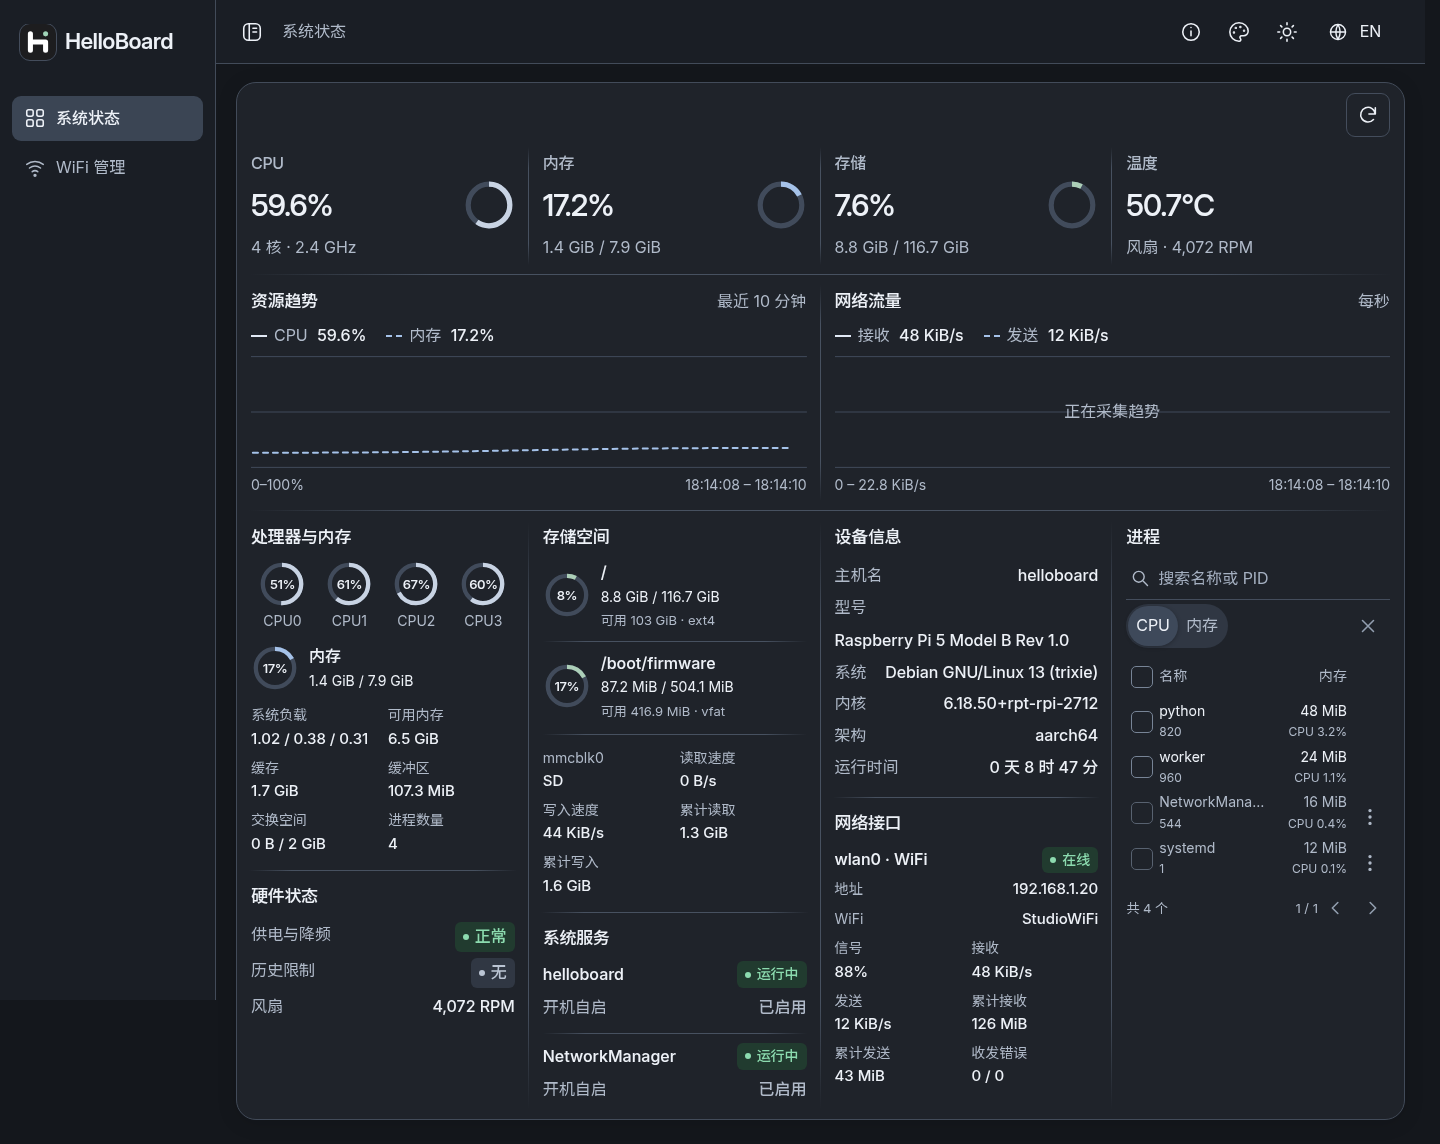
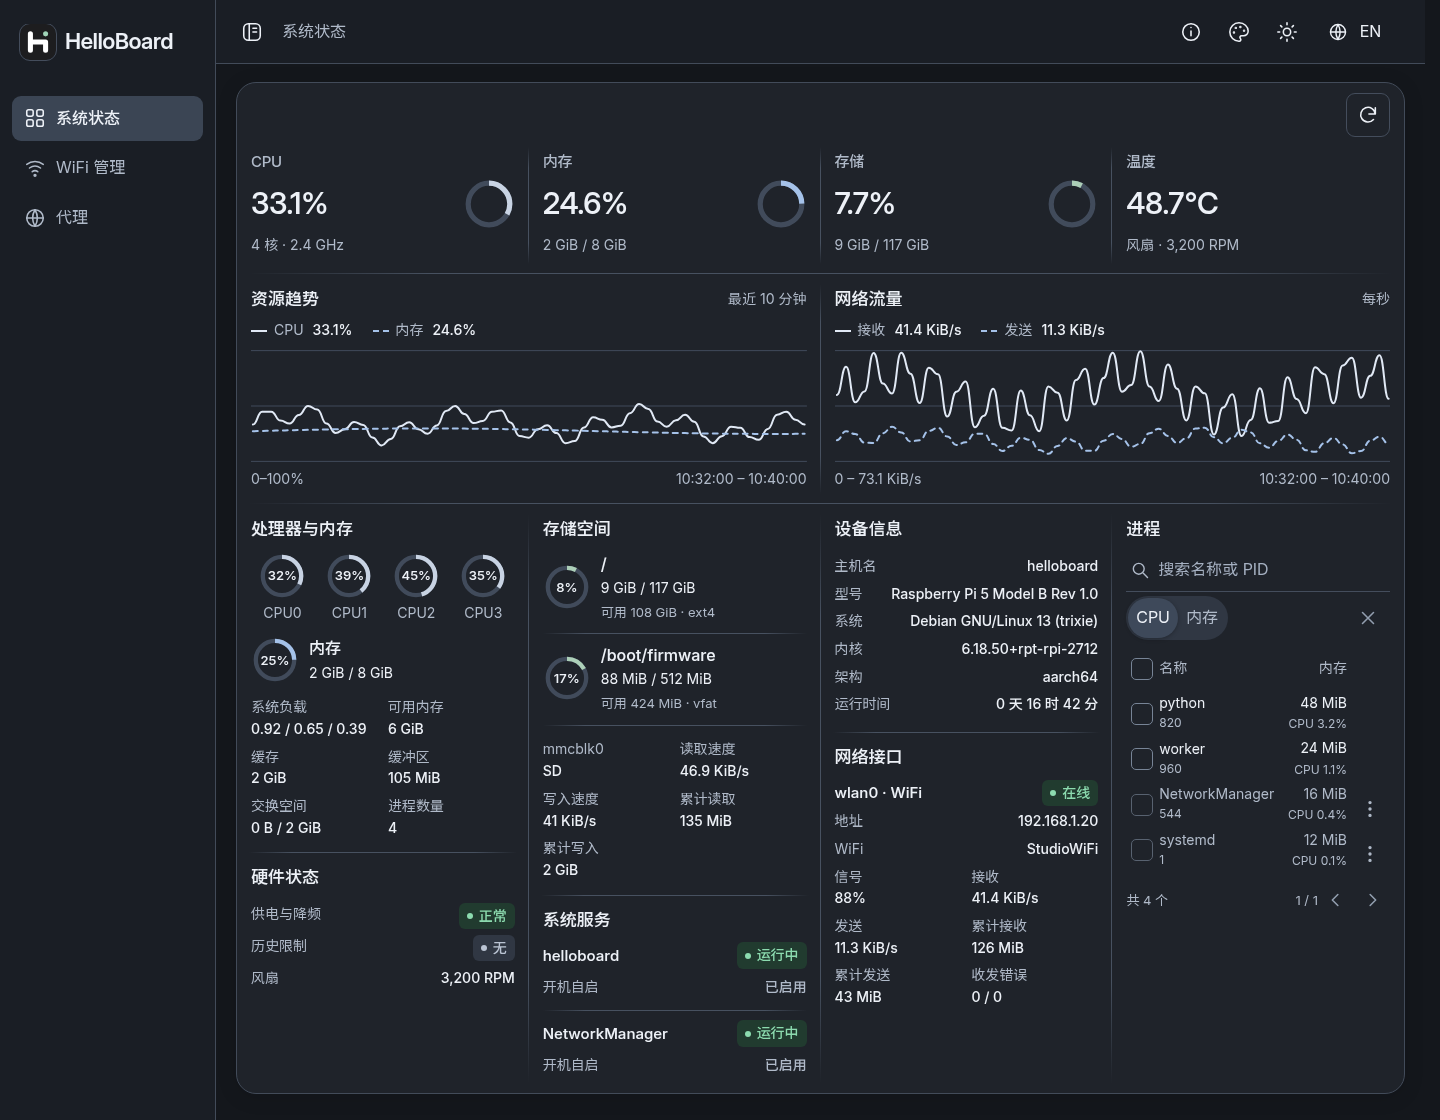
Refine dashboard typography and refresh README screenshots

diff --git a/static/dashboard.css b/static/dashboard.css
@@ -89,7 +89,7 @@
   );
 }
 .metric-card h2 {
-  font-size: 16px;
+  font-size: 15px;
   color: var(--muted);
   font-weight: 500;
 }
@@ -97,13 +97,14 @@
   display: block;
   font-size: 30px;
   font-weight: 550;
-  letter-spacing: -1px;
-  line-height: 1.4;
+  letter-spacing: -0.4px;
+  line-height: 1.25;
   font-variant-numeric: tabular-nums;
 }
 .metric-card p {
   min-height: 26px;
   color: var(--muted);
+  font-size: 14px;
   overflow-wrap: anywhere;
 }
 .metric-visual {
@@ -147,11 +148,16 @@
 }
 .dashboard-card h2 {
   font-size: 17px;
-  letter-spacing: -0.3px;
+  line-height: 1.4;
+  letter-spacing: normal;
   margin-bottom: 10px;
 }
 .section-heading h2 {
   margin-bottom: 0;
+}
+.chart-grid .section-heading > .muted,
+.chart-legend {
+  font-size: 14px;
 }
 .chart-legend {
   justify-content: flex-start;
@@ -233,8 +239,10 @@
   height: 1px;
   background: var(--line);
 }
-.data-list {
+.dashboard-shell .data-list {
   margin: 0;
+  font-size: 14px;
+  line-height: 1.55;
   font-variant-numeric: tabular-nums;
 }
 .dashboard-shell .data-list > div {
@@ -271,7 +279,6 @@
 }
 .compact-stats dd {
   text-align: left;
-  font-size: 15px;
 }
 .dashboard-shell .interface-stats > .wide-stat {
   grid-column: 1 / -1;
@@ -319,7 +326,7 @@
   place-items: center;
   font-size: 13px;
   font-weight: 550;
-  letter-spacing: -0.5px;
+  letter-spacing: normal;
 }
 .resource-summary {
   display: flex;
@@ -380,6 +387,7 @@
 }
 .item-heading strong {
   font-weight: 550;
+  font-size: 15px;
   min-width: 0;
 }
 .item-heading .badge {
@@ -387,7 +395,6 @@
   font-size: 14px;
 }
 .service-name {
-  font-size: 16px;
   overflow-wrap: anywhere;
 }
 /* State uses semantic colors; autostart configuration stays gray text. */
@@ -643,7 +650,7 @@
   display: none;
 }
 .process-card .process-table .process-memory-cell {
-  width: 76px;
+  width: 68px;
 }
 .process-card .process-table .process-action-cell {
   width: 40px;
@@ -651,9 +658,13 @@
   overflow: visible;
 }
 .process-name {
-  display: block;
+  display: -webkit-box;
+  -webkit-box-orient: vertical;
+  -webkit-line-clamp: 2;
   overflow: hidden;
-  text-overflow: ellipsis;
+  overflow-wrap: anywhere;
+  white-space: normal;
+  line-height: 1.45;
 }
 .process-mobile-note {
   white-space: normal;

diff --git a/docs/capture_readme.py b/docs/capture_readme.py
@@ -2,27 +2,68 @@
 
 Requires Playwright and /usr/bin/chromium. Reads one metrics snapshot, replaces
 host/network/process identity with examples, and intercepts all browser API calls.
-Usage: .venv/bin/python docs/capture_readme.py [http://127.0.0.1:8090]
+Usage: .venv/bin/python docs/capture_readme.py [http://127.0.0.1:8090] [--dashboard-only]
 """
+import argparse
 from copy import deepcopy
 import json
+from math import sin
 from pathlib import Path
-import sys
-from urllib.request import urlopen
+from urllib.request import ProxyHandler, build_opener
 from playwright.sync_api import sync_playwright, expect
 from theme_check import STATUS, PROCESSES
 
-BASE = (sys.argv[1] if len(sys.argv)>1 else 'http://127.0.0.1:8090').rstrip('/')
 OUT = Path(__file__).resolve().parent / 'images'
 
 
 def main():
-    with urlopen(BASE+'/api/system',timeout=10) as response:
+    parser = argparse.ArgumentParser(description=__doc__)
+    parser.add_argument('base', nargs='?', default='http://127.0.0.1:8090')
+    parser.add_argument('--dashboard-only', action='store_true')
+    args = parser.parse_args()
+    base = args.base.rstrip('/')
+    with build_opener(ProxyHandler({})).open(base + '/api/system', timeout=10) as response:
         metrics=json.load(response)
-    metrics['device']['hostname']='helloboard'
+    metrics['device'] = dict(hostname='helloboard', model='Raspberry Pi 5 Model B Rev 1.0',
+        os='Debian GNU/Linux 13 (trixie)', kernel='6.18.50+rpt-rpi-2712', architecture='aarch64')
+    metrics['sampled_at'] = 1770000000
+    metrics['history_id'] = 'readme-preview'
+    metrics['history'] = [
+        dict(time=metrics['sampled_at'] - (60 - i) * 8, cpu=33 + 10 * sin(i / 3) + 9 * sin(i * 1.23),
+             memory=27 + 2.5 * sin(i / 12), rx=45000 + 14000 * sin(i / 4) + 17000 * sin(i * 1.95),
+             tx=14000 + 4000 * sin(i / 5) + 5500 * sin(i * 1.31))
+        for i in range(61)
+    ]
+    latest = metrics['history'][-1]
+    metrics['cpu'].update(count=4, frequency_mhz=2400, load=[0.92, .65, .39],
+                          cores=[dict(name=f'cpu{i}', percent=load) for i, load in enumerate((32, 39, 45, 35))],
+                          percent=latest['cpu'])
+    metrics['memory']['percent'] = latest['memory']
+    metrics['memory']['total'] = 8 * 1024 ** 3
+    metrics['memory']['used'] = round(metrics['memory']['total'] * latest['memory'] / 100)
+    metrics['memory']['available'] = metrics['memory']['total'] - metrics['memory']['used']
+    metrics['memory'].update(cached=2 * 1024**3, buffers=105 * 1024**2, swap_total=2 * 1024**3, swap_used=0)
+    metrics['uptime_seconds'] = 16 * 3600 + 42 * 60
+    metrics['temperature_c'] = 48.7
+    metrics['fans'] = [dict(name='fan1', rpm=3200)]
+    metrics['power'] = dict(undervoltage=False, frequency_capped=False, throttled=False,
+                            temperature_limited=False, historical=False)
+    metrics['primary_mount'] = '/'
+    metrics['volumes'] = [
+        dict(mount='/', total=117 * 1024**3, used=9 * 1024**3, available=108 * 1024**3,
+             percent=7.7, filesystem='ext4', source='/dev/mmcblk0p2'),
+        dict(mount='/boot/firmware', total=512 * 1024**2, used=88 * 1024**2, available=424 * 1024**2,
+             percent=17.2, filesystem='vfat', source='/dev/mmcblk0p1'),
+    ]
+    metrics['disks'] = [dict(name='mmcblk0', type='SD', read_bytes=135 * 1024**2, write_bytes=2 * 1024**3,
+                             read_rate=48000, write_rate=42000)]
+    metrics['services'] = [
+        dict(name=name, state='active', enabled='enabled')
+        for name in ('helloboard.service', 'NetworkManager.service')
+    ]
     metrics['interfaces']=[dict(name='wlan0',addresses=['192.168.1.20'],wireless=True,
         ssid='StudioWiFi',signal=88,state='up',rx_bytes=126*1024**2,tx_bytes=43*1024**2,
-        rx_rate=48*1024,tx_rate=12*1024,rx_errors=0,tx_errors=0)]
+        rx_rate=latest['rx'],tx_rate=latest['tx'],rx_errors=0,tx_errors=0)]
     metrics['processes']={'cpu':[],'memory':[]}
     processes=deepcopy(PROCESSES)
     processes['items']=[dict(pid=pid,started=pid,name=name,memory=memory*1024**2,
@@ -45,31 +86,36 @@ def main():
                 ('Guest',50,'--',False),('HomeOffice',38,'WPA2',False)]], 'warning':''})
         else: raise AssertionError('Unexpected API call: '+route.request.url)
     with sync_playwright() as p:
-        browser=p.chromium.launch(executable_path='/usr/bin/chromium',args=['--no-sandbox'])
-        context=browser.new_context(viewport=dict(width=1440,height=1000),
-            color_scheme='light',reduced_motion='reduce')
+        browser=p.chromium.launch(executable_path='/usr/bin/chromium',args=['--no-sandbox', '--no-proxy-server'])
+        context=browser.new_context(viewport=dict(width=1440,height=1120), device_scale_factor=1,
+            color_scheme='light',reduced_motion='reduce', timezone_id='Asia/Shanghai')
         context.route('**/api/**',fixture)
         page=context.new_page()
         page.on('pageerror',lambda error:errors.append(str(error)))
-        page.goto(BASE+'/system_status')
+        page.goto(base+'/system_status', timeout=12000)
         expect(page.locator('#process-list tr')).to_have_count(4)
+        for chart in ('usage', 'traffic'):
+            expect(page.locator(f'#{chart}-empty')).to_be_hidden()
+            for series in ('primary', 'secondary'):
+                assert 'C' in page.locator(f'#{chart}-chart .series-{series}').get_attribute('d')
         for theme in ['light','dark']:
             page.evaluate('(theme)=>HelloBoardTheme.set(theme)',theme)
             page.evaluate('document.fonts.ready')
             page.screenshot(path=str(OUT/f'system-{theme}.png'),full_page=True)
-        page.goto(BASE+'/wifi_config')
-        expect(page.locator('.network-row')).to_have_count(4)
-        page.evaluate("HelloBoardTheme.set('light')")
-        page.set_viewport_size(dict(width=1440,height=900))
-        page.evaluate('document.fonts.ready')
-        page.screenshot(path=str(OUT/'wifi-desktop.png'),full_page=True)
-        page.set_viewport_size(dict(width=390,height=844))
-        page.evaluate("HelloBoardTheme.set('dark')")
-        page.screenshot(path=str(OUT/'wifi-mobile.png'),full_page=True)
+        if not args.dashboard_only:
+            page.goto(base+'/wifi_config')
+            expect(page.locator('.network-row')).to_have_count(4)
+            page.evaluate("HelloBoardTheme.set('light')")
+            page.set_viewport_size(dict(width=1440,height=900))
+            page.evaluate('document.fonts.ready')
+            page.screenshot(path=str(OUT/'wifi-desktop.png'),full_page=True)
+            page.set_viewport_size(dict(width=390,height=844))
+            page.evaluate("HelloBoardTheme.set('dark')")
+            page.screenshot(path=str(OUT/'wifi-mobile.png'),full_page=True)
         context.close()
         browser.close()
     assert not errors,errors
-    print('Captured four current screenshots with example identities; no device writes or scans.')
+    print('Captured README screenshots with example system history and device identities.')
 
 
 if __name__=='__main__': main()

diff --git a/README.md b/README.md
@@ -19,7 +19,7 @@
   <a href="docs/project-guide.md">中文指南</a>
 </p>
 
-![HelloBoard system dashboard with resource cards, live charts, and network interfaces](docs/images/system-light.png)
+[![Full HelloBoard system dashboard in light mode with populated charts, device information, and a process table](docs/images/system-light.png)](docs/images/system-light.png)
 
 ## Features
 
@@ -38,7 +38,7 @@ HelloBoard uses Flask, Waitress, and browser-native HTML, CSS, and JavaScript. I
 
 ### System dashboard · dark theme
 
-![Dark system dashboard with live resource charts](docs/images/system-dark.png)
+[![Full HelloBoard system dashboard in dark mode with CPU, memory, and network traffic charts](docs/images/system-dark.png)](docs/images/system-dark.png)
 
 ### Wi-Fi management
 
@@ -58,7 +58,7 @@ HelloBoard uses Flask, Waitress, and browser-native HTML, CSS, and JavaScript. I
 
 <img src="docs/images/wifi-mobile.png" alt="Wi-Fi configuration on a phone" width="360">
 
-The screenshots use example device, network, and proxy settings.
+The screenshots use example device, chart, network, and proxy data.
 
 ## Quick start
 
